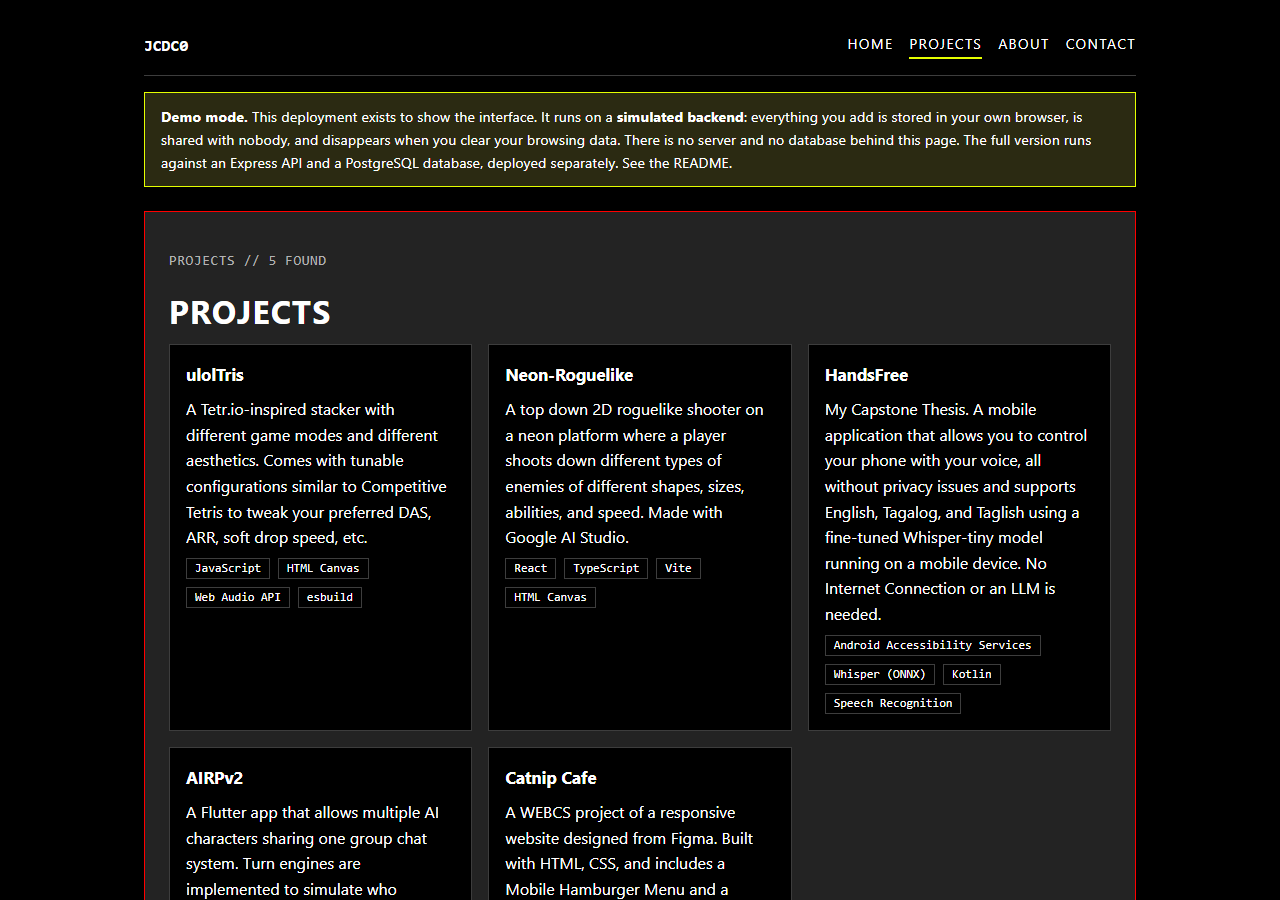
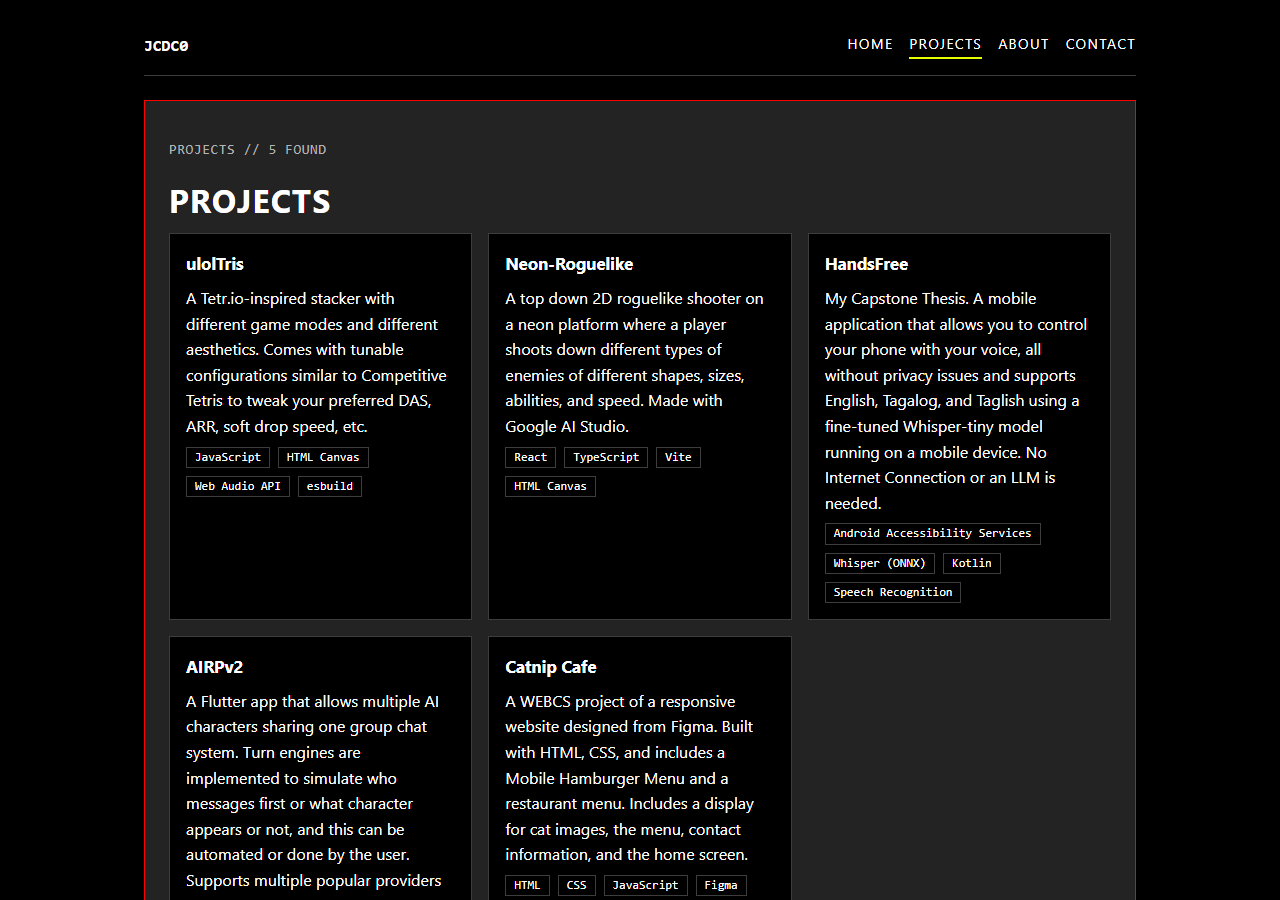
Build projects and messages API with validation and update README

Changed region(s): [[0.0938, 0.0933, 0.9062, 0.9956]]

diff --git a/server/server.js b/server/server.js
@@ -1,16 +1,11 @@
 import express from 'express'
 import cors from 'cors'
 import { pool } from './db/pool.js'
-import * as sightings from './sightingsRepo.js'
+import * as projects from './projectsRepo.js'
+import * as messages from './messagesRepo.js'
 
 const app = express()
 
-// CORS before the routes. Middleware registered after a route never sees that
-// route's requests, which is the m4 lesson showing up in production.
-//
-// Name your origins. app.use(cors()) with no options sends
-// Access-Control-Allow-Origin: *, which lets any site on the internet call this
-// API from a visitor's browser, and is incompatible with cookies.
 const allowedOrigins = (process.env.CORS_ORIGINS || 'http://localhost:5173')
   .split(',')
   .map((origin) => origin.trim())
@@ -19,13 +14,10 @@ const allowedOrigins = (process.env.CORS_ORIGINS || 'http://localhost:5173')
 app.use(cors({ origin: allowedOrigins }))
 app.use(express.json({ limit: '100kb' }))
 
-// Is the process alive?
 app.get('/healthz', (request, response) => {
   response.json({ ok: true })
 })
 
-// Is the database reachable? A different question, and the one that tells you
-// in two seconds which half of a problem you have.
 app.get('/readyz', async (request, response) => {
   try {
     await pool.query('SELECT 1')
@@ -36,72 +28,52 @@ app.get('/readyz', async (request, response) => {
   }
 })
 
-// Validation lives on the server because the client can be bypassed. The
-// browser form is for a fast, friendly message; this is for correctness.
-function validate(body) {
-  const errors = []
-  const place = typeof body.place === 'string' ? body.place.trim() : ''
-  const description =
-    typeof body.description === 'string' ? body.description.trim() : ''
-  const spookiness = Number(body.spookiness)
+const MAX_ID = 2147483647
+const LIMITS = { name: 120, email: 254, message: 2000 }
 
-  if (!place) errors.push('place is required')
-  if (place.length > 120) errors.push('place must be 120 characters or fewer')
-  if (description.length > 2000) errors.push('description must be 2000 characters or fewer')
-  if (!Number.isInteger(spookiness) || spookiness < 1 || spookiness > 5) {
-    errors.push('spookiness must be a whole number from 1 to 5')
-  }
-
-  return { errors, value: { place, description, spookiness } }
+function parseId(raw) {
+  const id = Number(raw)
+  return Number.isInteger(id) && id > 0 && id <= MAX_ID ? id : null
 }
 
-app.get('/api/sightings', async (request, response, next) => {
+function validateMessage(body) {
+  const errors = []
+  const value = {}
+  for (const [field, max] of Object.entries(LIMITS)) {
+    const text = typeof body[field] === 'string' ? body[field].trim() : ''
+    if (!text) errors.push(`${field} is required`)
+    else if (text.length > max) errors.push(`${field} must be ${max} characters or fewer`)
+    value[field] = text
+  }
+  if (value.email && !value.email.includes('@')) errors.push('email must be a valid address')
+  return { errors, value }
+}
+
+app.get('/api/projects', async (request, response, next) => {
   try {
-    response.json(await sightings.getAll(pool))
+    response.json(await projects.getAll(pool))
   } catch (error) {
     next(error)
   }
 })
 
-app.get('/api/sightings/:id', async (request, response, next) => {
+app.get('/api/projects/:id', async (request, response, next) => {
+  const id = parseId(request.params.id)
+  if (!id) return response.status(404).json({ error: 'Not found' })
   try {
-    const row = await sightings.getById(pool, request.params.id)
-    if (!row) return response.status(404).json({ error: 'Not found' })
-    response.json(row)
+    const project = await projects.getById(pool, id)
+    if (!project) return response.status(404).json({ error: 'Not found' })
+    response.json(project)
   } catch (error) {
     next(error)
   }
 })
 
-app.post('/api/sightings', async (request, response, next) => {
-  const { errors, value } = validate(request.body ?? {})
+app.post('/api/messages', async (request, response, next) => {
+  const { errors, value } = validateMessage(request.body ?? {})
   if (errors.length > 0) return response.status(400).json({ error: errors.join('; ') })
-
   try {
-    response.status(201).json(await sightings.create(pool, value))
-  } catch (error) {
-    next(error)
-  }
-})
-
-app.put('/api/sightings/:id', async (request, response, next) => {
-  const { errors, value } = validate(request.body ?? {})
-  if (errors.length > 0) return response.status(400).json({ error: errors.join('; ') })
-
-  try {
-    const row = await sightings.update(pool, request.params.id, value)
-    if (!row) return response.status(404).json({ error: 'Not found' })
-    response.json(row)
-  } catch (error) {
-    next(error)
-  }
-})
-
-app.delete('/api/sightings/:id', async (request, response, next) => {
-  try {
-    const removed = await sightings.remove(pool, request.params.id)
-    if (!removed) return response.status(404).json({ error: 'Not found' })
-    response.status(204).end()
+    response.status(201).json(await messages.create(pool, value))
   } catch (error) {
     next(error)
   }
@@ -111,15 +83,17 @@ app.use((request, response) => {
   response.status(404).json({ error: 'No such route' })
 })
 
-// The detail goes in your logs; the visitor gets a plain message. Sending a
-// stack trace to a stranger tells them about your file layout and dependencies.
 app.use((error, request, response, next) => {
+  if (error.type === 'entity.parse.failed') {
+    return response.status(400).json({ error: 'Request body must be valid JSON' })
+  }
+  if (error.type === 'entity.too.large') {
+    return response.status(413).json({ error: 'Request body is too large' })
+  }
   console.error(error)
   response.status(500).json({ error: 'Something went wrong on the server' })
 })
 
-// The host chooses the port and tells you through PORT. Hardcoding 3000 is the
-// commonest reason a first deploy is marked unhealthy and killed.
 const port = process.env.PORT || 3000
 
 app.listen(port, () => {

diff --git a/README.md b/README.md
@@ -1,11 +1,13 @@
 # Personal Portfolio: Sci-Fi Terminal
 
+[![Made with AI](https://img.shields.io/badge/Made_with-AI_assistance-blue)](AI-USAGE.md)
+
 A personal portfolio for a computer science student, styled after the surveillance-machine interfaces in *Person of Interest*. It is built for recruiters: it shows each project as a problem, the solution that was built, and the tools used, with links to the live app and the source.
 
-**Live site:** https://jcdc0.github.io/Personal-Portfolio-SciFiTerminal/
-**API:** not deployed yet (week 2 to 3)
+**Live site (demo mode):** https://jcdc0.github.io/Personal-Portfolio-SciFiTerminal/
+**Full app with API and database:** runs locally for now (see [How to run it](#how-to-run-it)); deployed in week 3
 
-> **This deployment is running in demo mode.** The interface is real, but the backend is simulated in your browser, so the site works without a server. See [Demo mode](#demo-mode).
+> **The GitHub Pages site runs in demo mode.** Its backend is simulated in your browser, so it works without a server. Run the app locally, as below, to use the real Express API and PostgreSQL database. See [Demo mode](#demo-mode).
 
 ![The projects panel](docs/assets/projects.png)
 
@@ -14,10 +16,10 @@ A personal portfolio for a computer science student, styled after the surveillan
 | Route | What it shows |
 | --- | --- |
 | `/` | Home panel: the handle, a one-line pitch, and buttons to the projects and the contact form |
-| `/projects` | Every project as a card with its summary and tech tags. It shows a loading line, then the cards, or an error with a *Try again* button |
+| `/projects` | Every project as a card with its summary and tech tags, loaded from the API. It shows a loading line, then the cards, or an error with a *Try again* button |
 | `/projects/:id` | One project: the problem, what was built, tech tags, and links to the live site and source code. An unknown id shows "Project not found" |
-| `/about` | Placeholder for the bio, skills and resume download |
-| `/contact` | A contact form (name, email, message). On *Send* it shows "MESSAGE RECEIVED" or the error |
+| `/about` | Placeholder for the bio and skills |
+| `/contact` | A contact form (name, email, message) that saves to the database. On *Send* it shows "MESSAGE RECEIVED" or the server's error |
 | anything else | A 404 panel with a link back home |
 
 The header and footer navigation reach every panel, so no page is a dead end.
@@ -26,63 +28,113 @@ The header and footer navigation reach every panel, so no page is a dead end.
 
 ### API
 
-The client calls these through `client/src/api/`. In demo mode they are answered in the browser. The Express versions are the week 2 work.
+An Express server in `server/`, backed by PostgreSQL. Every query uses parameters (`$1`, `$2`, …), never string concatenation.
 
-| Method | Path | What it does |
-| --- | --- | --- |
-| GET | `/api/projects` | List all projects |
-| GET | `/api/projects/:id` | One project, or 404 |
-| POST | `/api/messages` | Save a contact message (`name`, `email` and `message` are required, otherwise 400) |
+| Method | Path | Success | Errors |
+| --- | --- | --- | --- |
+| GET | `/api/projects` | 200 with an array of projects, in id order | 500 `{ "error": "Something went wrong on the server" }` |
+| GET | `/api/projects/:id` | 200 with one project | 404 `{ "error": "Not found" }` for an unknown or non-numeric id |
+| POST | `/api/messages` | 201 with the saved message (`id`, `name`, `email`, `message`, `created_at`) | 400 if `name`, `email` or `message` is missing or blank, longer than 120 / 254 / 2000 characters, or the body is not valid JSON |
+| GET | `/healthz` | 200 `{ "ok": true }`: the process is running | |
+| GET | `/readyz` | 200 `{ "ok": true, "db": "up" }`: the database answers | 503 `{ "ok": false, "db": "down" }` |
+
+A project looks like this:
+
+```json
+{
+  "id": 1,
+  "title": "ulolTris",
+  "problem": "Arcade players that ... want to practice Tetris ...",
+  "summary": "A Tetr.io-inspired stacker ...",
+  "tech": ["JavaScript", "HTML Canvas", "Web Audio API", "esbuild"],
+  "image_url": "",
+  "live_url": "",
+  "repo_url": "https://github.com/JCDC0/ulolTris"
+}
+```
+
+Sending a message from PowerShell:
+
+```powershell
+Invoke-RestMethod -Method Post -Uri http://localhost:3000/api/messages -ContentType "application/json" -Body '{"name":"Ada","email":"ada@example.com","message":"Hello"}'
+```
 
 ## Setup and installation
 
-You need **Node.js 20 or newer** (npm comes with it) and **Git**.
+You need **Node.js 20 or newer** (npm comes with it), **Git**, and a **PostgreSQL database**. The project uses a free [Neon](https://neon.com) database, but any PostgreSQL 14+ works, including a local one.
 
 1. Get the code:
 
     ```bash
     git clone https://github.com/JCDC0/Personal-Portfolio-SciFiTerminal.git
-    cd Personal-Portfolio-SciFiTerminal/client
+    cd Personal-Portfolio-SciFiTerminal
     ```
 
-2. Install the dependencies:
+2. Create a database. On Neon, sign up, create a project, and copy its connection string from **Connect**.
+
+3. Set up the server. Use `copy` on Windows and `cp` on macOS or Linux:
 
     ```bash
+    cd server
     npm install
-    ```
-
-3. Create your environment file from the example. Use `copy` on Windows and `cp` on macOS or Linux:
-
-    ```bash
     copy .env.example .env
     ```
 
-No database is needed yet. The client runs in demo mode until the API exists.
+    Open `server/.env` and set `DATABASE_URL` to your connection string. Never commit this file.
+
+4. Create the tables and load the sample projects:
+
+    ```bash
+    npm run db:reset
+    ```
+
+    This runs `db/schema.sql`, then `db/seed.sql`. The seed starts with `TRUNCATE`, so it empties the `projects` table first.
+
+5. Set up the client:
+
+    ```bash
+    cd ../client
+    npm install
+    copy .env.example .env
+    ```
+
+    Open `client/.env` and set `VITE_USE_MOCK_API=false` and `VITE_API_BASE_URL=http://localhost:3000`. Leave them as they are to stay in demo mode, which needs no server.
 
 ### Environment variables
 
-None of these are committed. `.env.example` lists them with placeholder values.
+None of these are committed. Each folder's `.env.example` lists them with placeholder values.
 
 | Name | Where | Example | What it is |
 | --- | --- | --- | --- |
-| `VITE_USE_MOCK_API` | client, at build time | `true` | Only the exact value `false` turns demo mode off |
-| `VITE_API_BASE_URL` | client, at build time | `http://localhost:3000` | The API's address, no trailing slash. Ignored in demo mode |
-| `DATABASE_URL` | server (week 2) | `postgresql://postgres:devpassword@localhost:5432/portfolio` | PostgreSQL connection string |
-| `CORS_ORIGINS` | server (week 2) | `http://localhost:5173` | Origins allowed to call the API |
+| `DATABASE_URL` | server | `postgresql://user:password@host.neon.tech/neondb?sslmode=require` | PostgreSQL connection string. Contains a password |
+| `CORS_ORIGINS` | server | `http://localhost:5173` | Comma-separated origins allowed to call the API |
+| `NODE_ENV` | server | `development` | `production` on a host |
+| `VITE_USE_MOCK_API` | client, at build time | `false` | Only the exact value `false` turns demo mode off |
+| `VITE_API_BASE_URL` | client, at build time | `http://localhost:3000` | The API's address, no trailing slash |
 
 Every `VITE_` value is compiled into the public JavaScript, so none of them may hold a password or key.
 
 ## How to run it
 
-From the `client` folder:
+Two terminals.
+
+**Terminal 1, the API** (from `server/`):
 
 ```bash
 npm run dev
 ```
 
-Open http://localhost:5173. You should see the Home panel with a yellow **Demo mode** notice under the header. Click **Projects** and five project cards appear after a short loading line.
+It prints `API listening on http://localhost:3000`. Open http://localhost:3000/readyz and expect `{"ok":true,"db":"up"}`.
 
-To build the production version, which is what GitHub Pages serves:
+**Terminal 2, the site** (from `client/`):
+
+```bash
+npm run dev
+```
+
+Open http://localhost:5173. There is no yellow demo notice, and **Projects** shows the five projects from the database after a short loading line.
+
+To build the production version of the client:
 
 ```bash
 npm run build
@@ -94,22 +146,28 @@ npm run build
 
 | Value | What happens |
 | --- | --- |
-| unset, or `true` | Projects come from `client/src/api/seed.json`, and contact messages are saved to the visitor's own `localStorage`. There is no server and no database. |
-| `false` | The client calls the Express API at `VITE_API_BASE_URL`, which will read and write PostgreSQL. |
+| unset, or `true` | Projects come from `client/src/api/seed.json`, and contact messages are saved to the visitor's own `localStorage`. There is no server and no database. The GitHub Pages site uses this. |
+| `false` | The client calls the Express API at `VITE_API_BASE_URL`, which reads and writes PostgreSQL. |
 
-Both implementations (`mockApi.js` and `httpApi.js`) export the same three functions, `listProjects`, `getProject` and `sendMessage`. That makes switching to the real API a one-variable change.
+Both implementations (`mockApi.js` and `httpApi.js`) export the same three functions, `listProjects`, `getProject` and `sendMessage`. That is why switching to the real API needed no changes to the pages.
 
 ## Project structure
 
 ```
 client/                 React 18 + Vite front end
-  src/api/              index.js picks mockApi.js or httpApi.js; seed.json holds the project data
+  src/api/              index.js picks mockApi.js or httpApi.js; seed.json is the demo data
   src/components/       Header, Footer, ProjectCard, DemoNotice
   src/pages/            one panel per route: Home, Projects, ProjectDetail, About, Contact, NotFound
   src/styles.css        the Machine (dark) and Samaritan (light) colour tokens
-server/                 Express + PostgreSQL API (still the class template; replaced in week 2)
+server/                 Express API
+  server.js             routes, input validation and error handling
+  projectsRepo.js       SQL for projects (read only)
+  messagesRepo.js       SQL for contact messages (insert)
+  db/schema.sql         the projects and messages tables, with length limits enforced by the database
+  db/seed.sql           the five projects
+  db/pool.js, db/run.js the connection pool, and the runner behind npm run db:reset
 docs/assets/            screenshots
-.github/workflows/      builds the client and deploys it to GitHub Pages on every push
+.github/workflows/      builds the client and deploys the demo to GitHub Pages
 ```
 
 ## Screenshots
@@ -120,17 +178,15 @@ docs/assets/            screenshots
 
 ## Known issues and next steps
 
-- **The API and database don't exist yet.** `server/` is still the template's sightings API. Next: a `projects` and `messages` schema, `GET /api/projects`, `GET /api/projects/:id` and `POST /api/messages` with parameterised SQL, and then deployment.
-- **The About panel is a placeholder**, and there is no resume download yet.
-- **The *Person of Interest* look is only started.** The colour tokens are in, but the 3D "void" with camera travel between panels, the theme and sound toggles, and the Futura PT and Magda Clean Mono fonts are not built yet.
+- **The API and database are not deployed yet.** In week 3, one Render service will serve both the site and the API from a custom domain behind Cloudflare Zero Trust, because the contact form writes to the database.
+- **The database accepts connections from any address.** Neon's free plan has no IP allow-list. It is protected by the password and TLS, and the app will get its own database user that can only read projects and add messages.
+- **The About panel is a placeholder.**
+- **The *Person of Interest* look is only started.** The colour tokens are in, but the CCTV-style camera travel between panels, the theme and sound toggles, and the Futura PT and Magda Clean Mono fonts are not built yet.
 - **Project cards have no images yet** (`image_url` is empty for every project).
-- Before the API goes public, the contact endpoint needs an access gate, because it writes to the database.
 
 ## AI use
 
-![Built with AI assistance](https://img.shields.io/badge/built%20with-AI%20assistance-0b5fff)
-
-Built with help from Claude (Anthropic). It was used for the React routing and page scaffolding and for drafting documentation. The project data and design decisions are my own, and the backend routes and SQL will be too. The full record, with commit links, is in [AI-USAGE.md](AI-USAGE.md).
+Built with **Claude Code** (Anthropic), which wrote most of the code: the React client, the Express routes and validation, and the database schema. The parts I wrote are the project content (`client/src/api/seed.json`), the seed data (`server/db/seed.sql`) and the three SQL queries in `server/projectsRepo.js` and `server/messagesRepo.js`. I also chose the features, the validation rules, the database and the hosting, and I tested every step. The full record, including where the AI got it wrong, is in [AI-USAGE.md](AI-USAGE.md).
 
 ## Author
 
